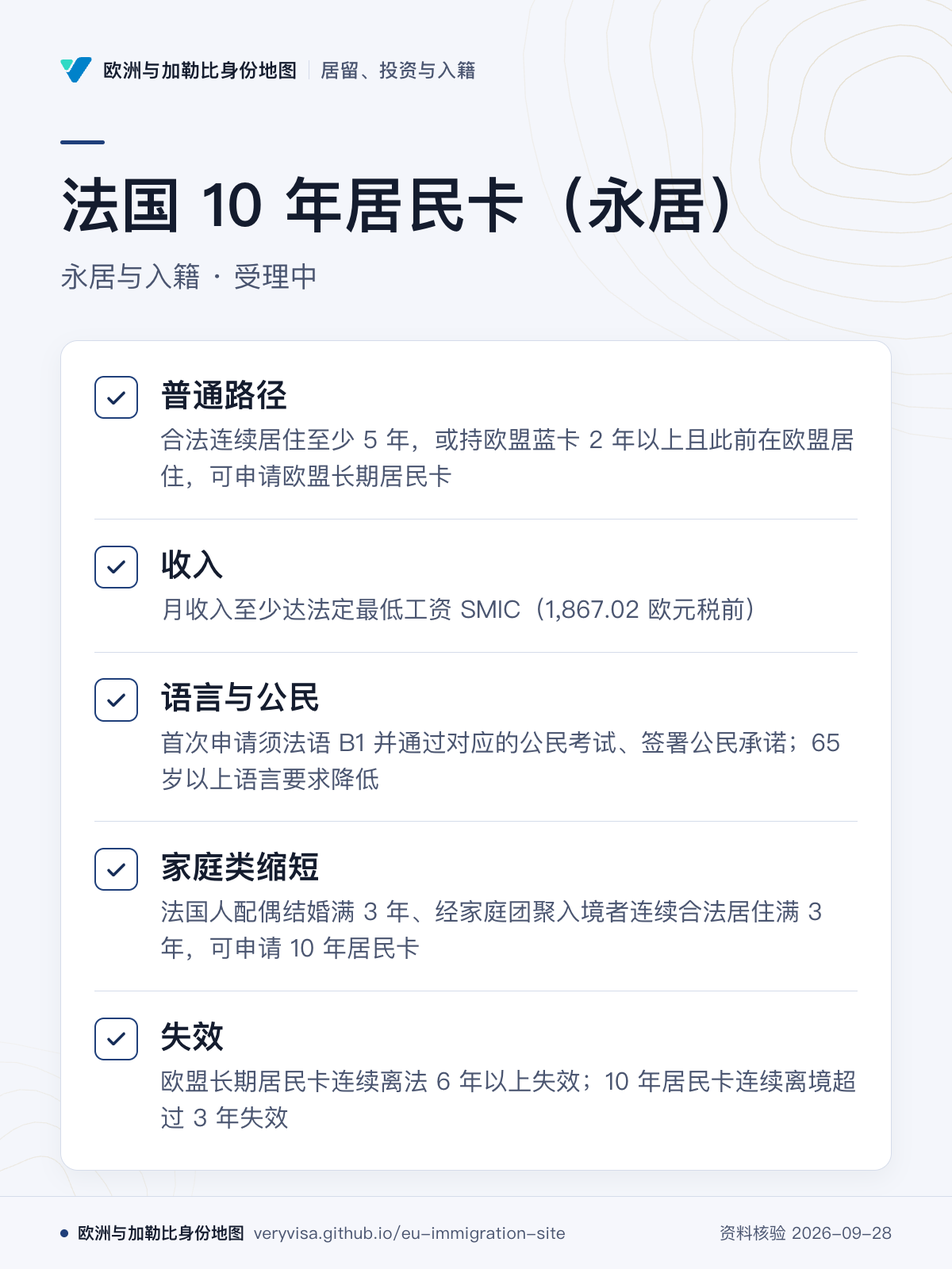
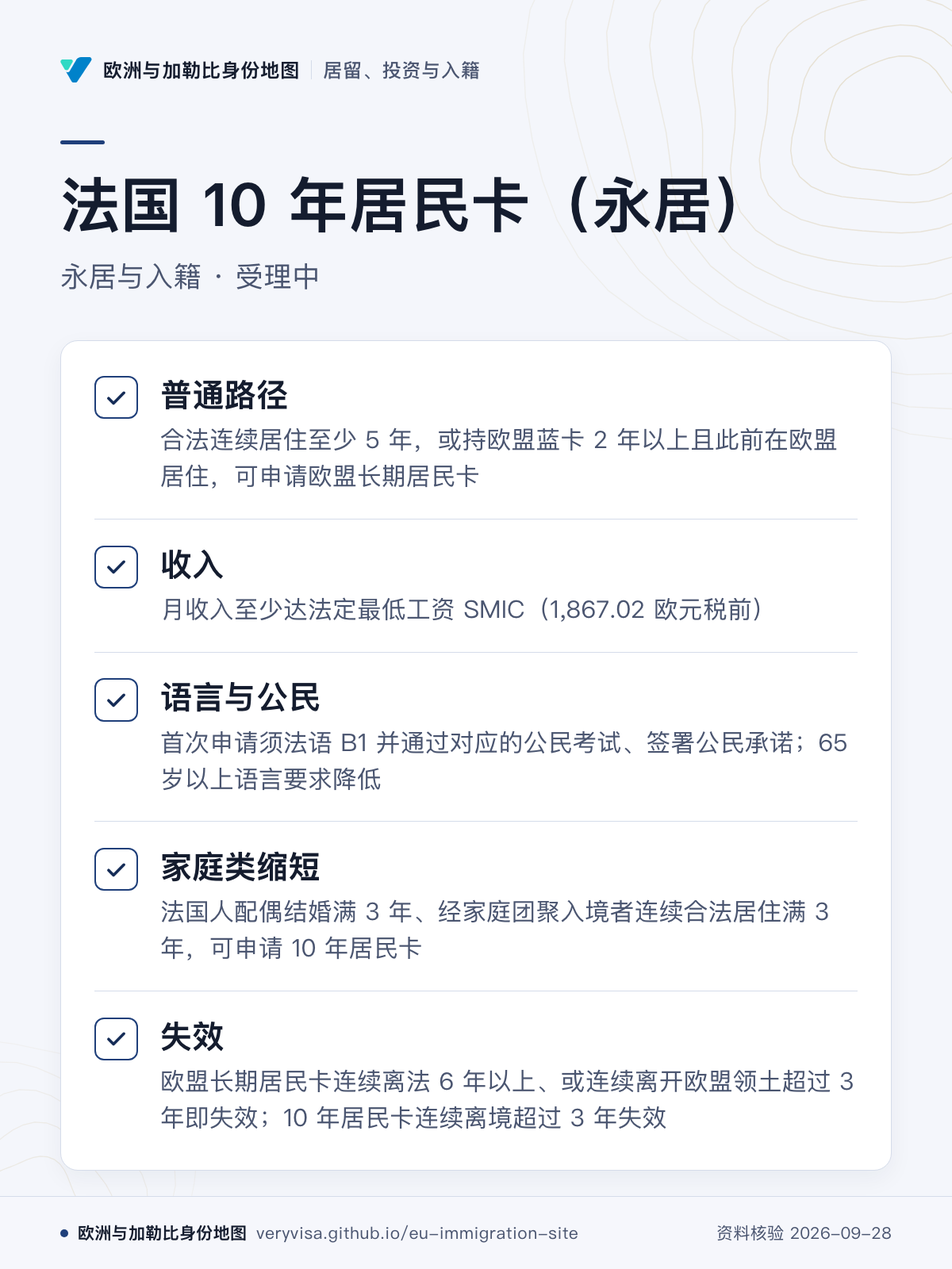
Publish gated reader experience update

diff --git a/visas/fr-carte-resident/index.html b/visas/fr-carte-resident/index.html
@@ -9,7 +9,7 @@
 <div class="lb-body"><figure class="lb-fig"><img class="lb-img" alt=""/></figure>
 <aside class="lb-cap"><p class="lb-count"></p><h3 class="lb-title"></h3><p class="lb-sub"></p><b class="lb-take"></b><ul class="guide lb-guide"></ul>
 <p class="lb-acts"><a class="button primary lb-detail" href="#">详情页 · 可分享</a><a class="button lb-page" href="#">读这一节正文</a><a class="button lb-dl" href="#" download>下载原图</a></p>
-<p class="lb-hint">← → 翻页 · Esc 关闭</p></aside></div>`,document.body.appendChild(t);let n=e=>t.querySelector(e),r=n(`.lb-img`),i=-1,a=!1,o=null,s=location.pathname.replace(/\/$/,``).endsWith(`/cards`);function c(t){i=(t+e.length)%e.length;let a=e[i],o=a.dataset;r.src=o.full,r.alt=a.querySelector(`img`).alt,n(`.lb-count`).textContent=`${o.pageTitle} · 第 ${i+1} / ${e.length} 张`,n(`.lb-title`).textContent=o.title,n(`.lb-sub`).textContent=o.sub||``,n(`.lb-sub`).style.display=o.sub?``:`none`,n(`.lb-take`).textContent=a.querySelector(`.takeaway`).textContent,n(`.lb-guide`).innerHTML=a.querySelector(`.guide`).innerHTML,n(`.lb-detail`).href=o.detail;let c=n(`.lb-page`);c.href=o.page,c.style.display=s?``:`none`,n(`.lb-dl`).href=o.full,n(`.lb-prev`).style.visibility=n(`.lb-next`).style.visibility=e.length>1?`visible`:`hidden`;for(let t of[i-1,i+1]){let n=new Image;n.src=e[(t+e.length)%e.length].dataset.full}history.replaceState(history.state,``,`#look-${o.key}`)}function l(e,n){o=n||null,t.open||(history.pushState({lb:1},``,location.href),a=!0,t.showModal(),document.body.classList.add(`lb-open`)),c(e)}function u(){t.open&&t.close()}t.addEventListener(`close`,()=>{document.body.classList.remove(`lb-open`),a?(a=!1,history.back()):location.hash.startsWith(`#look-`)&&history.replaceState(null,``,location.pathname+location.search),o?.focus()}),window.addEventListener(`popstate`,()=>{t.open&&(a=!1,t.close())}),t.addEventListener(`click`,e=>{let n=e.target;(n===t||n.classList.contains(`lb-body`))&&u()}),n(`.lb-x`).addEventListener(`click`,u),n(`.lb-prev`).addEventListener(`click`,()=>c(i-1)),n(`.lb-next`).addEventListener(`click`,()=>c(i+1)),t.addEventListener(`keydown`,e=>{e.key===`ArrowLeft`&&(e.preventDefault(),c(i-1)),e.key===`ArrowRight`&&(e.preventDefault(),c(i+1))});let d=0;t.addEventListener(`touchstart`,e=>{d=e.touches[0].clientX},{passive:!0}),t.addEventListener(`touchend`,e=>{let t=e.changedTouches[0].clientX-d;Math.abs(t)>50&&c(i+(t<0?1:-1))},{passive:!0}),e.forEach((e,t)=>{e.querySelector(`.kcard-pic`).addEventListener(`click`,n=>{n.preventDefault(),l(t,e.querySelector(`.kcard-pic`))})});let f=location.hash.match(/^#look-([\w-]+)$/);if(f){let t=e.findIndex(e=>e.dataset.key===f[1]);t>=0&&l(t)}}</script></div><div class="vv-wrap vv-content"><section id="summary" data-vv-value="compare"><h2>先看结论</h2><p>法国的永居形态是 10 年期可续的居民卡，普通路径为合法连续居住 5 年申请「欧盟长期居民卡」，家庭类（法国人配偶、家庭团聚）为 3 年。</p><p><strong>主要适合：</strong>在法合法居住多年、想要长期稳定身份的外国人。这不是个案资格或获批结论。</p></section><section id="eligibility" data-vv-value="numbers"><h2>硬条件与官方依据</h2><div class="vv-table-scroll" role="region" tabindex="0" aria-label="资料表格"><table class="vv-table"><caption class="vv-sr">本节资料</caption><thead><tr><th scope="col">项目</th><th scope="col">当前已核对的要点</th><th scope="col">原文</th></tr></thead><tbody><tr><td><strong>普通路径</strong></td><td>合法连续居住至少 5 年，或持欧盟蓝卡 2 年以上且此前在欧盟居住，可申请欧盟长期居民卡。</td><td><div><span class="vv-ev"><a data-vv-source href="https://www.service-public.gouv.fr/particuliers/vosdroits/F17359" target="_blank" rel="noopener noreferrer">Service-Public.fr 法国政府行政信息门户<span aria-hidden="true"> ↗</span><span class="vv-sr">（外文，service-public.gouv.fr）</span></a></span></div></td></tr><tr><td><strong>收入</strong></td><td>月收入至少达法定最低工资 SMIC（1,867.02 欧元税前）。</td><td><div><span class="vv-ev"><a data-vv-source href="https://www.service-public.gouv.fr/particuliers/vosdroits/F17359" target="_blank" rel="noopener noreferrer">Service-Public.fr 法国政府行政信息门户<span aria-hidden="true"> ↗</span><span class="vv-sr">（外文，service-public.gouv.fr）</span></a></span></div></td></tr><tr><td><strong>语言与公民</strong></td><td>首次申请须法语 B1 并通过对应的公民考试、签署公民承诺；65 岁以上语言要求降低。</td><td><div><span class="vv-ev"><a data-vv-source href="https://www.service-public.gouv.fr/particuliers/vosdroits/F17359" target="_blank" rel="noopener noreferrer">Service-Public.fr 法国政府行政信息门户<span aria-hidden="true"> ↗</span><span class="vv-sr">（外文，service-public.gouv.fr）</span></a></span></div><div><span class="vv-ev"><a data-vv-source href="https://www.service-public.gouv.fr/particuliers/vosdroits/F2208" target="_blank" rel="noopener noreferrer">Service-Public.fr 法国政府行政信息门户<span aria-hidden="true"> ↗</span><span class="vv-sr">（外文，service-public.gouv.fr）</span></a></span></div></td></tr><tr><td><strong>家庭类缩短</strong></td><td>法国人配偶结婚满 3 年、经家庭团聚入境者连续合法居住满 3 年，可申请 10 年居民卡。</td><td><div><span class="vv-ev"><a data-vv-source href="https://www.service-public.gouv.fr/particuliers/vosdroits/F2208" target="_blank" rel="noopener noreferrer">Service-Public.fr 法国政府行政信息门户<span aria-hidden="true"> ↗</span><span class="vv-sr">（外文，service-public.gouv.fr）</span></a></span></div></td></tr><tr><td><strong>失效</strong></td><td>欧盟长期居民卡连续离法 6 年以上失效；10 年居民卡连续离境超过 3 年失效。</td><td><div><span class="vv-ev"><a data-vv-source href="https://www.service-public.gouv.fr/particuliers/vosdroits/F17359" target="_blank" rel="noopener noreferrer">Service-Public.fr 法国政府行政信息门户<span aria-hidden="true"> ↗</span><span class="vv-sr">（外文，service-public.gouv.fr）</span></a></span></div><div><span class="vv-ev"><a data-vv-source href="https://www.service-public.gouv.fr/particuliers/vosdroits/F2208" target="_blank" rel="noopener noreferrer">Service-Public.fr 法国政府行政信息门户<span aria-hidden="true"> ↗</span><span class="vv-sr">（外文，service-public.gouv.fr）</span></a></span></div></td></tr></tbody></table></div><div class="callout"><p>只列关键门槛。各国主管机关按完整申请、尽职调查（due diligence）与个案情况决定；投资金额、费用与名额政策变化频繁，递交时以当时原文为准。</p></div></section><section id="china"><h2>中国申请人注意</h2><p class="vv-muted">官方页面没有针对中国大陆出生或国籍申请人的特别规定。</p></section><section id="pathway"><h2>通往永居或入籍的路径</h2><p>居民卡本身即长期身份，满足条件后可申请入籍。</p></section><section id="policy"><h2>2025–2026 相关政策变化</h2><p class="vv-muted">政策动态页目前没有专门影响本类别的条目。</p><p><a href="/eu-immigration-site/policy/">看全部政策动态 →</a></p></section><section id="fees"><h2>费用与处理时间</h2><p class="vv-muted">申请费会调整，本站不抄录金额；处理时间以官方为准，不是承诺或上限。</p><p><a href="https://home-affairs.ec.europa.eu/policies/migration-and-asylum/legal-migration-and-integration/work_en" target="_blank" rel="noopener noreferrer">欧盟移民门户（EU Immigration Portal） ↗</a> · <a href="https://eur-lex.europa.eu/eli/dir/2021/1883/oj" target="_blank" rel="noopener noreferrer">欧盟蓝卡官方说明 ↗</a></p></section><section id="related"><h2>相关类别</h2><ul><li><a href="/eu-immigration-site/visas/eu-long-term/">EU LTR 欧盟长期居民身份</a></li><li><a href="/eu-immigration-site/visas/fr-naturalisation/">Naturalisation par décret 法国入籍（政令入籍）</a></li></ul></section><section id="forum"><h2>论坛讨论</h2><p>本类别的长青帖尚在整理。<a href="https://bbs.fcgvisa.com/c/eu-caribbean/eu-pr-citizenship/279" target="_blank" rel="noopener noreferrer">先到论坛欧洲与加勒比对应板块 ↗</a> · <a href="https://bbs.fcgvisa.com/c/eu-caribbean/272" target="_blank" rel="noopener noreferrer">欧洲与加勒比签证与移民总板块 ↗</a></p></section><section id="sources"><div class="source-list"><h2>来源</h2><ul><li><a data-vv-source href="https://www.service-public.gouv.fr/particuliers/vosdroits/F2208" target="_blank" rel="noopener noreferrer">Carte de résident de 10 ans <span class="domain">service-public.gouv.fr ↗</span><span class="vv-sr">（外文，www.service-public.gouv.fr）</span></a></li><li><a data-vv-source href="https://www.service-public.gouv.fr/particuliers/vosdroits/F17359" target="_blank" rel="noopener noreferrer">Carte de résident de longue durée-UE <span class="domain">service-public.gouv.fr ↗</span><span class="vv-sr">（外文，www.service-public.gouv.fr）</span></a></li></ul></div></section></div><!-- vf:start --><div class="vf-tools" role="group" data-pagefind-ignore aria-label="阅读工具"><button type="button" data-vf-save hidden>保存本页</button><button type="button" data-vf-print hidden>打印 / 存为 PDF</button><span data-vf-status role="status" aria-live="polite"></span></div><!-- vf:end --></main><footer class="vv-foot"><div class="vv-wrap"><strong>欧洲与加勒比身份地图</strong><p>公开资料整理与学习用途，不构成移民或法律意见。办理前以各国移民主管机关与投资入籍管理机构的官方原文为准；个案请咨询当地执业律师或持牌移民顾问。</p><nav class="vv-tools" aria-label="更多入口"><a href="/eu-immigration-site/identity/">身份与税务</a><a href="/eu-immigration-site/numbers/">关键数字</a><a href="/eu-immigration-site/cards/">知识卡</a><a href="/eu-immigration-site/glossary/">术语表</a><a href="/eu-immigration-site/changelog/">更新日志</a><a href="/eu-immigration-site/sources/">来源与口径</a><a href="/eu-immigration-site/about/">关于本站</a></nav><p><a href="https://bbs.fcgvisa.com/c/eu-caribbean/272" target="_blank" rel="noopener noreferrer">这页有错或过时？到论坛欧洲与加勒比板块反馈<span aria-hidden="true"> ↗</span></a></p><fieldset class="vv-theme" hidden><legend>外观</legend><label><input type="radio" name="eu-theme" value="system" checked>随系统</label><label><input type="radio" name="eu-theme" value="light">亮色</label><label><input type="radio" name="eu-theme" value="dark">暗色</label></fieldset></div></footer><script>
+<p class="lb-hint">← → 翻页 · Esc 关闭</p></aside></div>`,document.body.appendChild(t);let n=e=>t.querySelector(e),r=n(`.lb-img`),i=-1,a=!1,o=null,s=location.pathname.replace(/\/$/,``).endsWith(`/cards`);function c(t){i=(t+e.length)%e.length;let a=e[i],o=a.dataset;r.src=o.full,r.alt=a.querySelector(`img`).alt,n(`.lb-count`).textContent=`${o.pageTitle} · 第 ${i+1} / ${e.length} 张`,n(`.lb-title`).textContent=o.title,n(`.lb-sub`).textContent=o.sub||``,n(`.lb-sub`).style.display=o.sub?``:`none`,n(`.lb-take`).textContent=a.querySelector(`.takeaway`).textContent,n(`.lb-guide`).innerHTML=a.querySelector(`.guide`).innerHTML,n(`.lb-detail`).href=o.detail;let c=n(`.lb-page`);c.href=o.page,c.style.display=s?``:`none`,n(`.lb-dl`).href=o.full,n(`.lb-prev`).style.visibility=n(`.lb-next`).style.visibility=e.length>1?`visible`:`hidden`;for(let t of[i-1,i+1]){let n=new Image;n.src=e[(t+e.length)%e.length].dataset.full}history.replaceState(history.state,``,`#look-${o.key}`)}function l(e,n){o=n||null,t.open||(history.pushState({lb:1},``,location.href),a=!0,t.showModal(),document.body.classList.add(`lb-open`)),c(e)}function u(){t.open&&t.close()}t.addEventListener(`close`,()=>{document.body.classList.remove(`lb-open`),a?(a=!1,history.back()):location.hash.startsWith(`#look-`)&&history.replaceState(null,``,location.pathname+location.search),o?.focus()}),window.addEventListener(`popstate`,()=>{t.open&&(a=!1,t.close())}),t.addEventListener(`click`,e=>{let n=e.target;(n===t||n.classList.contains(`lb-body`))&&u()}),n(`.lb-x`).addEventListener(`click`,u),n(`.lb-prev`).addEventListener(`click`,()=>c(i-1)),n(`.lb-next`).addEventListener(`click`,()=>c(i+1)),t.addEventListener(`keydown`,e=>{e.key===`ArrowLeft`&&(e.preventDefault(),c(i-1)),e.key===`ArrowRight`&&(e.preventDefault(),c(i+1))});let d=0;t.addEventListener(`touchstart`,e=>{d=e.touches[0].clientX},{passive:!0}),t.addEventListener(`touchend`,e=>{let t=e.changedTouches[0].clientX-d;Math.abs(t)>50&&c(i+(t<0?1:-1))},{passive:!0}),e.forEach((e,t)=>{e.querySelector(`.kcard-pic`).addEventListener(`click`,n=>{n.preventDefault(),l(t,e.querySelector(`.kcard-pic`))})});let f=location.hash.match(/^#look-([\w-]+)$/);if(f){let t=e.findIndex(e=>e.dataset.key===f[1]);t>=0&&l(t)}}</script></div><div class="vv-wrap vv-content"><section id="summary" data-vv-value="compare"><h2>先看结论</h2><p>法国的永居形态是 10 年期可续的居民卡，普通路径为合法连续居住 5 年申请「欧盟长期居民卡」，家庭类（法国人配偶、家庭团聚）为 3 年。</p><p><strong>主要适合：</strong>在法合法居住多年、想要长期稳定身份的外国人。这不是个案资格或获批结论。</p></section><section id="eligibility" data-vv-value="numbers"><h2>硬条件与官方依据</h2><div class="vv-table-scroll" role="region" tabindex="0" aria-label="资料表格"><table class="vv-table"><caption class="vv-sr">本节资料</caption><thead><tr><th scope="col">项目</th><th scope="col">当前已核对的要点</th><th scope="col">原文</th></tr></thead><tbody><tr><td><strong>普通路径</strong></td><td>合法连续居住至少 5 年，或持欧盟蓝卡 2 年以上且此前在欧盟居住，可申请欧盟长期居民卡。</td><td><div><span class="vv-ev"><a data-vv-source href="https://www.service-public.gouv.fr/particuliers/vosdroits/F17359" target="_blank" rel="noopener noreferrer">Service-Public.fr 法国政府行政信息门户<span aria-hidden="true"> ↗</span><span class="vv-sr">（外文，service-public.gouv.fr）</span></a></span></div></td></tr><tr><td><strong>收入</strong></td><td>月收入至少达法定最低工资 SMIC（1,867.02 欧元税前）。</td><td><div><span class="vv-ev"><a data-vv-source href="https://www.service-public.gouv.fr/particuliers/vosdroits/F17359" target="_blank" rel="noopener noreferrer">Service-Public.fr 法国政府行政信息门户<span aria-hidden="true"> ↗</span><span class="vv-sr">（外文，service-public.gouv.fr）</span></a></span></div></td></tr><tr><td><strong>语言与公民</strong></td><td>首次申请须法语 B1 并通过对应的公民考试、签署公民承诺；65 岁以上语言要求降低。</td><td><div><span class="vv-ev"><a data-vv-source href="https://www.service-public.gouv.fr/particuliers/vosdroits/F17359" target="_blank" rel="noopener noreferrer">Service-Public.fr 法国政府行政信息门户<span aria-hidden="true"> ↗</span><span class="vv-sr">（外文，service-public.gouv.fr）</span></a></span></div><div><span class="vv-ev"><a data-vv-source href="https://www.service-public.gouv.fr/particuliers/vosdroits/F2208" target="_blank" rel="noopener noreferrer">Service-Public.fr 法国政府行政信息门户<span aria-hidden="true"> ↗</span><span class="vv-sr">（外文，service-public.gouv.fr）</span></a></span></div></td></tr><tr><td><strong>家庭类缩短</strong></td><td>法国人配偶结婚满 3 年、经家庭团聚入境者连续合法居住满 3 年，可申请 10 年居民卡。</td><td><div><span class="vv-ev"><a data-vv-source href="https://www.service-public.gouv.fr/particuliers/vosdroits/F2208" target="_blank" rel="noopener noreferrer">Service-Public.fr 法国政府行政信息门户<span aria-hidden="true"> ↗</span><span class="vv-sr">（外文，service-public.gouv.fr）</span></a></span></div></td></tr><tr><td><strong>失效</strong></td><td>欧盟长期居民卡连续离法 6 年以上、或连续离开欧盟领土超过 3 年即失效；10 年居民卡连续离境超过 3 年失效。</td><td><div><span class="vv-ev"><a data-vv-source href="https://www.service-public.gouv.fr/particuliers/vosdroits/F17359" target="_blank" rel="noopener noreferrer">Service-Public.fr 法国政府行政信息门户<span aria-hidden="true"> ↗</span><span class="vv-sr">（外文，service-public.gouv.fr）</span></a></span></div><div><span class="vv-ev"><a data-vv-source href="https://www.service-public.gouv.fr/particuliers/vosdroits/F2208" target="_blank" rel="noopener noreferrer">Service-Public.fr 法国政府行政信息门户<span aria-hidden="true"> ↗</span><span class="vv-sr">（外文，service-public.gouv.fr）</span></a></span></div></td></tr></tbody></table></div><div class="callout"><p>只列关键门槛。各国主管机关按完整申请、尽职调查（due diligence）与个案情况决定；投资金额、费用与名额政策变化频繁，递交时以当时原文为准。</p></div></section><section id="china"><h2>中国申请人注意</h2><p class="vv-muted">官方页面没有针对中国大陆出生或国籍申请人的特别规定。</p></section><section id="pathway"><h2>通往永居或入籍的路径</h2><p>居民卡本身即长期身份，满足条件后可申请入籍。</p></section><section id="policy"><h2>2025–2026 相关政策变化</h2><p class="vv-muted">政策动态页目前没有专门影响本类别的条目。</p><p><a href="/eu-immigration-site/policy/">看全部政策动态 →</a></p></section><section id="fees"><h2>费用与处理时间</h2><p class="vv-muted">申请费会调整，本站不抄录金额；处理时间以官方为准，不是承诺或上限。</p><p><a href="https://home-affairs.ec.europa.eu/policies/migration-and-asylum/legal-migration-and-integration/work_en" target="_blank" rel="noopener noreferrer">欧盟移民门户（EU Immigration Portal） ↗</a> · <a href="https://eur-lex.europa.eu/eli/dir/2021/1883/oj" target="_blank" rel="noopener noreferrer">欧盟蓝卡官方说明 ↗</a></p></section><section id="related"><h2>相关类别</h2><ul><li><a href="/eu-immigration-site/visas/eu-long-term/">EU LTR 欧盟长期居民身份</a></li><li><a href="/eu-immigration-site/visas/fr-naturalisation/">Naturalisation par décret 法国入籍（政令入籍）</a></li></ul></section><section id="forum"><h2>论坛讨论</h2><p>本类别的长青帖尚在整理。<a href="https://bbs.fcgvisa.com/c/eu-caribbean/eu-pr-citizenship/279" target="_blank" rel="noopener noreferrer">先到论坛欧洲与加勒比对应板块 ↗</a> · <a href="https://bbs.fcgvisa.com/c/eu-caribbean/272" target="_blank" rel="noopener noreferrer">欧洲与加勒比签证与移民总板块 ↗</a></p></section><section id="sources"><div class="source-list"><h2>来源</h2><ul><li><a data-vv-source href="https://www.service-public.gouv.fr/particuliers/vosdroits/F2208" target="_blank" rel="noopener noreferrer">Carte de résident de 10 ans <span class="domain">service-public.gouv.fr ↗</span><span class="vv-sr">（外文，www.service-public.gouv.fr）</span></a></li><li><a data-vv-source href="https://www.service-public.gouv.fr/particuliers/vosdroits/F17359" target="_blank" rel="noopener noreferrer">Carte de résident de longue durée-UE <span class="domain">service-public.gouv.fr ↗</span><span class="vv-sr">（外文，www.service-public.gouv.fr）</span></a></li></ul></div></section></div><!-- vf:start --><div class="vf-tools" role="group" data-pagefind-ignore aria-label="阅读工具"><button type="button" data-vf-save hidden>保存本页</button><button type="button" data-vf-print hidden>打印 / 存为 PDF</button><span data-vf-status role="status" aria-live="polite"></span></div><!-- vf:end --></main><footer class="vv-foot"><div class="vv-wrap"><strong>欧洲与加勒比身份地图</strong><p>公开资料整理与学习用途，不构成移民或法律意见。办理前以各国移民主管机关与投资入籍管理机构的官方原文为准；个案请咨询当地执业律师或持牌移民顾问。</p><nav class="vv-tools" aria-label="更多入口"><a href="/eu-immigration-site/identity/">身份与税务</a><a href="/eu-immigration-site/numbers/">关键数字</a><a href="/eu-immigration-site/cards/">知识卡</a><a href="/eu-immigration-site/glossary/">术语表</a><a href="/eu-immigration-site/changelog/">更新日志</a><a href="/eu-immigration-site/sources/">来源与口径</a><a href="/eu-immigration-site/about/">关于本站</a></nav><p><a href="https://bbs.fcgvisa.com/c/eu-caribbean/272" target="_blank" rel="noopener noreferrer">这页有错或过时？到论坛欧洲与加勒比板块反馈<span aria-hidden="true"> ↗</span></a></p><fieldset class="vv-theme" hidden><legend>外观</legend><label><input type="radio" name="eu-theme" value="system" checked>随系统</label><label><input type="radio" name="eu-theme" value="light">亮色</label><label><input type="radio" name="eu-theme" value="dark">暗色</label></fieldset></div></footer><script>
       (() => {
         const group = document.querySelector('.vv-theme');
         group.hidden = false;

diff --git a/visas/uk-global-talent/index.html b/visas/uk-global-talent/index.html
@@ -9,7 +9,7 @@
 <div class="lb-body"><figure class="lb-fig"><img class="lb-img" alt=""/></figure>
 <aside class="lb-cap"><p class="lb-count"></p><h3 class="lb-title"></h3><p class="lb-sub"></p><b class="lb-take"></b><ul class="guide lb-guide"></ul>
 <p class="lb-acts"><a class="button primary lb-detail" href="#">详情页 · 可分享</a><a class="button lb-page" href="#">读这一节正文</a><a class="button lb-dl" href="#" download>下载原图</a></p>
-<p class="lb-hint">← → 翻页 · Esc 关闭</p></aside></div>`,document.body.appendChild(t);let n=e=>t.querySelector(e),r=n(`.lb-img`),i=-1,a=!1,o=null,s=location.pathname.replace(/\/$/,``).endsWith(`/cards`);function c(t){i=(t+e.length)%e.length;let a=e[i],o=a.dataset;r.src=o.full,r.alt=a.querySelector(`img`).alt,n(`.lb-count`).textContent=`${o.pageTitle} · 第 ${i+1} / ${e.length} 张`,n(`.lb-title`).textContent=o.title,n(`.lb-sub`).textContent=o.sub||``,n(`.lb-sub`).style.display=o.sub?``:`none`,n(`.lb-take`).textContent=a.querySelector(`.takeaway`).textContent,n(`.lb-guide`).innerHTML=a.querySelector(`.guide`).innerHTML,n(`.lb-detail`).href=o.detail;let c=n(`.lb-page`);c.href=o.page,c.style.display=s?``:`none`,n(`.lb-dl`).href=o.full,n(`.lb-prev`).style.visibility=n(`.lb-next`).style.visibility=e.length>1?`visible`:`hidden`;for(let t of[i-1,i+1]){let n=new Image;n.src=e[(t+e.length)%e.length].dataset.full}history.replaceState(history.state,``,`#look-${o.key}`)}function l(e,n){o=n||null,t.open||(history.pushState({lb:1},``,location.href),a=!0,t.showModal(),document.body.classList.add(`lb-open`)),c(e)}function u(){t.open&&t.close()}t.addEventListener(`close`,()=>{document.body.classList.remove(`lb-open`),a?(a=!1,history.back()):location.hash.startsWith(`#look-`)&&history.replaceState(null,``,location.pathname+location.search),o?.focus()}),window.addEventListener(`popstate`,()=>{t.open&&(a=!1,t.close())}),t.addEventListener(`click`,e=>{let n=e.target;(n===t||n.classList.contains(`lb-body`))&&u()}),n(`.lb-x`).addEventListener(`click`,u),n(`.lb-prev`).addEventListener(`click`,()=>c(i-1)),n(`.lb-next`).addEventListener(`click`,()=>c(i+1)),t.addEventListener(`keydown`,e=>{e.key===`ArrowLeft`&&(e.preventDefault(),c(i-1)),e.key===`ArrowRight`&&(e.preventDefault(),c(i+1))});let d=0;t.addEventListener(`touchstart`,e=>{d=e.touches[0].clientX},{passive:!0}),t.addEventListener(`touchend`,e=>{let t=e.changedTouches[0].clientX-d;Math.abs(t)>50&&c(i+(t<0?1:-1))},{passive:!0}),e.forEach((e,t)=>{e.querySelector(`.kcard-pic`).addEventListener(`click`,n=>{n.preventDefault(),l(t,e.querySelector(`.kcard-pic`))})});let f=location.hash.match(/^#look-([\w-]+)$/);if(f){let t=e.findIndex(e=>e.dataset.key===f[1]);t>=0&&l(t)}}</script></div><div class="vv-wrap vv-content"><section id="summary" data-vv-value="compare"><h2>先看结论</h2><p>为学术科研、艺术文化与数字科技领域的领军者与潜力人才设立，无需雇主担保。</p><p><strong>主要适合：</strong>在科研、艺术或数字科技领域有公认成就的人。这不是个案资格或获批结论。</p></section><section id="eligibility" data-vv-value="numbers"><h2>硬条件与官方依据</h2><div class="vv-table-scroll" role="region" tabindex="0" aria-label="资料表格"><table class="vv-table"><caption class="vv-sr">本节资料</caption><thead><tr><th scope="col">项目</th><th scope="col">当前已核对的要点</th><th scope="col">原文</th></tr></thead><tbody><tr><td><strong>背书</strong></td><td>多数申请人须先取得指定背书机构的背书（如英国皇家学会、英国国家学术院、艺术委员会等）。</td><td><div><span class="vv-ev"><a data-vv-source href="https://www.gov.uk/global-talent" target="_blank" rel="noopener noreferrer">英国政府 GOV.UK<span aria-hidden="true"> ↗</span><span class="vv-sr">（外文，gov.uk）</span></a></span></div></td></tr><tr><td><strong>获奖直通</strong></td><td>获得名单所列国际重要奖项者可免背书直接申请。</td><td><div><span class="vv-ev"><a data-vv-source href="https://www.gov.uk/global-talent" target="_blank" rel="noopener noreferrer">英国政府 GOV.UK<span aria-hidden="true"> ↗</span><span class="vv-sr">（外文，gov.uk）</span></a></span></div></td></tr><tr><td><strong>工作自由</strong></td><td>不绑定雇主，可受雇、自雇或创业。</td><td><div><span class="vv-ev"><a data-vv-source href="https://www.gov.uk/global-talent" target="_blank" rel="noopener noreferrer">英国政府 GOV.UK<span aria-hidden="true"> ↗</span><span class="vv-sr">（外文，gov.uk）</span></a></span></div></td></tr></tbody></table></div><div class="callout"><p>只列关键门槛。各国主管机关按完整申请、尽职调查（due diligence）与个案情况决定；投资金额、费用与名额政策变化频繁，递交时以当时原文为准。</p></div></section><section id="china"><h2>中国申请人注意</h2><p class="vv-muted">官方页面没有针对中国大陆出生或国籍申请人的特别规定。</p></section><section id="pathway"><h2>通往永居或入籍的路径</h2><p>领军人才类最快 3 年、潜力人才类 5 年可申请永居（ILR）。</p></section><section id="policy"><h2>2025–2026 相关政策变化</h2><p class="vv-muted">政策动态页目前没有专门影响本类别的条目。</p><p><a href="/eu-immigration-site/policy/">看全部政策动态 →</a></p></section><section id="fees"><h2>费用与处理时间</h2><p class="vv-muted">申请费会调整，本站不抄录金额；处理时间以官方为准，不是承诺或上限。</p><p><a href="https://home-affairs.ec.europa.eu/policies/migration-and-asylum/legal-migration-and-integration/work_en" target="_blank" rel="noopener noreferrer">欧盟移民门户（EU Immigration Portal） ↗</a> · <a href="https://eur-lex.europa.eu/eli/dir/2021/1883/oj" target="_blank" rel="noopener noreferrer">欧盟蓝卡官方说明 ↗</a></p></section><section id="related"><h2>相关类别</h2><ul><li><a href="/eu-immigration-site/visas/uk-skilled-worker/">Skilled Worker 英国技术工人签证</a></li><li><a href="/eu-immigration-site/visas/uk-innovator-founder/">Innovator Founder 英国创新者创始人签证</a></li><li><a href="/eu-immigration-site/visas/uk-ilr/">ILR 英国永居（无限期居留）</a></li></ul></section><section id="forum"><h2>论坛讨论</h2><p>本类别已有论坛专题，可继续阅读与讨论。<a href="https://bbs.fcgvisa.com/t/58365" target="_blank" rel="noopener noreferrer">阅读本类别论坛专题 ↗</a> · <a href="https://bbs.fcgvisa.com/c/eu-caribbean/272" target="_blank" rel="noopener noreferrer">欧洲与加勒比签证与移民总板块 ↗</a></p></section><section id="sources"><div class="source-list"><h2>来源</h2><ul><li><a data-vv-source href="https://www.gov.uk/global-talent" target="_blank" rel="noopener noreferrer">Global Talent visa <span class="domain">gov.uk ↗</span><span class="vv-sr">（外文，www.gov.uk）</span></a></li></ul></div></section></div><!-- vf:start --><div class="vf-tools" role="group" data-pagefind-ignore aria-label="阅读工具"><button type="button" data-vf-save hidden>保存本页</button><button type="button" data-vf-print hidden>打印 / 存为 PDF</button><span data-vf-status role="status" aria-live="polite"></span></div><!-- vf:end --></main><footer class="vv-foot"><div class="vv-wrap"><strong>欧洲与加勒比身份地图</strong><p>公开资料整理与学习用途，不构成移民或法律意见。办理前以各国移民主管机关与投资入籍管理机构的官方原文为准；个案请咨询当地执业律师或持牌移民顾问。</p><nav class="vv-tools" aria-label="更多入口"><a href="/eu-immigration-site/identity/">身份与税务</a><a href="/eu-immigration-site/numbers/">关键数字</a><a href="/eu-immigration-site/cards/">知识卡</a><a href="/eu-immigration-site/glossary/">术语表</a><a href="/eu-immigration-site/changelog/">更新日志</a><a href="/eu-immigration-site/sources/">来源与口径</a><a href="/eu-immigration-site/about/">关于本站</a></nav><p><a href="https://bbs.fcgvisa.com/c/eu-caribbean/272" target="_blank" rel="noopener noreferrer">这页有错或过时？到论坛欧洲与加勒比板块反馈<span aria-hidden="true"> ↗</span></a></p><fieldset class="vv-theme" hidden><legend>外观</legend><label><input type="radio" name="eu-theme" value="system" checked>随系统</label><label><input type="radio" name="eu-theme" value="light">亮色</label><label><input type="radio" name="eu-theme" value="dark">暗色</label></fieldset></div></footer><script>
+<p class="lb-hint">← → 翻页 · Esc 关闭</p></aside></div>`,document.body.appendChild(t);let n=e=>t.querySelector(e),r=n(`.lb-img`),i=-1,a=!1,o=null,s=location.pathname.replace(/\/$/,``).endsWith(`/cards`);function c(t){i=(t+e.length)%e.length;let a=e[i],o=a.dataset;r.src=o.full,r.alt=a.querySelector(`img`).alt,n(`.lb-count`).textContent=`${o.pageTitle} · 第 ${i+1} / ${e.length} 张`,n(`.lb-title`).textContent=o.title,n(`.lb-sub`).textContent=o.sub||``,n(`.lb-sub`).style.display=o.sub?``:`none`,n(`.lb-take`).textContent=a.querySelector(`.takeaway`).textContent,n(`.lb-guide`).innerHTML=a.querySelector(`.guide`).innerHTML,n(`.lb-detail`).href=o.detail;let c=n(`.lb-page`);c.href=o.page,c.style.display=s?``:`none`,n(`.lb-dl`).href=o.full,n(`.lb-prev`).style.visibility=n(`.lb-next`).style.visibility=e.length>1?`visible`:`hidden`;for(let t of[i-1,i+1]){let n=new Image;n.src=e[(t+e.length)%e.length].dataset.full}history.replaceState(history.state,``,`#look-${o.key}`)}function l(e,n){o=n||null,t.open||(history.pushState({lb:1},``,location.href),a=!0,t.showModal(),document.body.classList.add(`lb-open`)),c(e)}function u(){t.open&&t.close()}t.addEventListener(`close`,()=>{document.body.classList.remove(`lb-open`),a?(a=!1,history.back()):location.hash.startsWith(`#look-`)&&history.replaceState(null,``,location.pathname+location.search),o?.focus()}),window.addEventListener(`popstate`,()=>{t.open&&(a=!1,t.close())}),t.addEventListener(`click`,e=>{let n=e.target;(n===t||n.classList.contains(`lb-body`))&&u()}),n(`.lb-x`).addEventListener(`click`,u),n(`.lb-prev`).addEventListener(`click`,()=>c(i-1)),n(`.lb-next`).addEventListener(`click`,()=>c(i+1)),t.addEventListener(`keydown`,e=>{e.key===`ArrowLeft`&&(e.preventDefault(),c(i-1)),e.key===`ArrowRight`&&(e.preventDefault(),c(i+1))});let d=0;t.addEventListener(`touchstart`,e=>{d=e.touches[0].clientX},{passive:!0}),t.addEventListener(`touchend`,e=>{let t=e.changedTouches[0].clientX-d;Math.abs(t)>50&&c(i+(t<0?1:-1))},{passive:!0}),e.forEach((e,t)=>{e.querySelector(`.kcard-pic`).addEventListener(`click`,n=>{n.preventDefault(),l(t,e.querySelector(`.kcard-pic`))})});let f=location.hash.match(/^#look-([\w-]+)$/);if(f){let t=e.findIndex(e=>e.dataset.key===f[1]);t>=0&&l(t)}}</script></div><div class="vv-wrap vv-content"><section id="summary" data-vv-value="compare"><h2>先看结论</h2><p>为学术科研、艺术文化与数字科技领域的领军者与潜力人才设立，无需雇主担保。</p><p><strong>主要适合：</strong>在科研、艺术或数字科技领域有公认成就的人。这不是个案资格或获批结论。</p></section><section id="eligibility" data-vv-value="numbers"><h2>硬条件与官方依据</h2><div class="vv-table-scroll" role="region" tabindex="0" aria-label="资料表格"><table class="vv-table"><caption class="vv-sr">本节资料</caption><thead><tr><th scope="col">项目</th><th scope="col">当前已核对的要点</th><th scope="col">原文</th></tr></thead><tbody><tr><td><strong>背书</strong></td><td>多数申请人须先取得指定背书机构的背书（如英国皇家学会、英国国家学术院、艺术委员会等）。</td><td><div><span class="vv-ev"><a data-vv-source href="https://www.gov.uk/global-talent" target="_blank" rel="noopener noreferrer">英国政府 GOV.UK<span aria-hidden="true"> ↗</span><span class="vv-sr">（外文，gov.uk）</span></a></span></div></td></tr><tr><td><strong>获奖直通</strong></td><td>获得名单所列国际重要奖项者可免背书直接申请。</td><td><div><span class="vv-ev"><a data-vv-source href="https://www.gov.uk/global-talent" target="_blank" rel="noopener noreferrer">英国政府 GOV.UK<span aria-hidden="true"> ↗</span><span class="vv-sr">（外文，gov.uk）</span></a></span></div></td></tr><tr><td><strong>工作自由</strong></td><td>不绑定雇主，可受雇、自雇或创业。</td><td><div><span class="vv-ev"><a data-vv-source href="https://www.gov.uk/global-talent" target="_blank" rel="noopener noreferrer">英国政府 GOV.UK<span aria-hidden="true"> ↗</span><span class="vv-sr">（外文，gov.uk）</span></a></span></div></td></tr></tbody></table></div><div class="callout"><p>只列关键门槛。各国主管机关按完整申请、尽职调查（due diligence）与个案情况决定；投资金额、费用与名额政策变化频繁，递交时以当时原文为准。</p></div></section><section id="china"><h2>中国申请人注意</h2><p class="vv-muted">官方页面没有针对中国大陆出生或国籍申请人的特别规定。</p></section><section id="pathway"><h2>通往永居或入籍的路径</h2><p>学术科研类（四家学术机构背书）、艺术文化与数字科技的领军人才类、获奖直通者连续居住 3 年可申请永居（ILR）；艺术文化与数字科技的潜力人才类为 5 年。</p></section><section id="policy"><h2>2025–2026 相关政策变化</h2><p class="vv-muted">政策动态页目前没有专门影响本类别的条目。</p><p><a href="/eu-immigration-site/policy/">看全部政策动态 →</a></p></section><section id="fees"><h2>费用与处理时间</h2><p class="vv-muted">申请费会调整，本站不抄录金额；处理时间以官方为准，不是承诺或上限。</p><p><a href="https://home-affairs.ec.europa.eu/policies/migration-and-asylum/legal-migration-and-integration/work_en" target="_blank" rel="noopener noreferrer">欧盟移民门户（EU Immigration Portal） ↗</a> · <a href="https://eur-lex.europa.eu/eli/dir/2021/1883/oj" target="_blank" rel="noopener noreferrer">欧盟蓝卡官方说明 ↗</a></p></section><section id="related"><h2>相关类别</h2><ul><li><a href="/eu-immigration-site/visas/uk-skilled-worker/">Skilled Worker 英国技术工人签证</a></li><li><a href="/eu-immigration-site/visas/uk-innovator-founder/">Innovator Founder 英国创新者创始人签证</a></li><li><a href="/eu-immigration-site/visas/uk-ilr/">ILR 英国永居（无限期居留）</a></li></ul></section><section id="forum"><h2>论坛讨论</h2><p>本类别已有论坛专题，可继续阅读与讨论。<a href="https://bbs.fcgvisa.com/t/58365" target="_blank" rel="noopener noreferrer">阅读本类别论坛专题 ↗</a> · <a href="https://bbs.fcgvisa.com/c/eu-caribbean/272" target="_blank" rel="noopener noreferrer">欧洲与加勒比签证与移民总板块 ↗</a></p></section><section id="sources"><div class="source-list"><h2>来源</h2><ul><li><a data-vv-source href="https://www.gov.uk/global-talent" target="_blank" rel="noopener noreferrer">Global Talent visa <span class="domain">gov.uk ↗</span><span class="vv-sr">（外文，www.gov.uk）</span></a></li></ul></div></section></div><!-- vf:start --><div class="vf-tools" role="group" data-pagefind-ignore aria-label="阅读工具"><button type="button" data-vf-save hidden>保存本页</button><button type="button" data-vf-print hidden>打印 / 存为 PDF</button><span data-vf-status role="status" aria-live="polite"></span></div><!-- vf:end --></main><footer class="vv-foot"><div class="vv-wrap"><strong>欧洲与加勒比身份地图</strong><p>公开资料整理与学习用途，不构成移民或法律意见。办理前以各国移民主管机关与投资入籍管理机构的官方原文为准；个案请咨询当地执业律师或持牌移民顾问。</p><nav class="vv-tools" aria-label="更多入口"><a href="/eu-immigration-site/identity/">身份与税务</a><a href="/eu-immigration-site/numbers/">关键数字</a><a href="/eu-immigration-site/cards/">知识卡</a><a href="/eu-immigration-site/glossary/">术语表</a><a href="/eu-immigration-site/changelog/">更新日志</a><a href="/eu-immigration-site/sources/">来源与口径</a><a href="/eu-immigration-site/about/">关于本站</a></nav><p><a href="https://bbs.fcgvisa.com/c/eu-caribbean/272" target="_blank" rel="noopener noreferrer">这页有错或过时？到论坛欧洲与加勒比板块反馈<span aria-hidden="true"> ↗</span></a></p><fieldset class="vv-theme" hidden><legend>外观</legend><label><input type="radio" name="eu-theme" value="system" checked>随系统</label><label><input type="radio" name="eu-theme" value="light">亮色</label><label><input type="radio" name="eu-theme" value="dark">暗色</label></fieldset></div></footer><script>
       (() => {
         const group = document.querySelector('.vv-theme');
         group.hidden = false;
